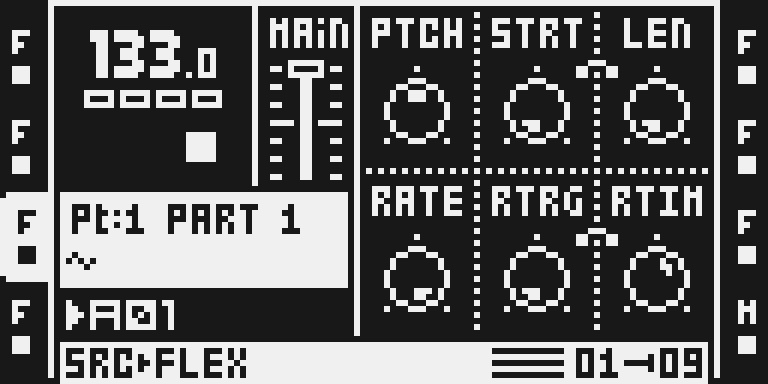
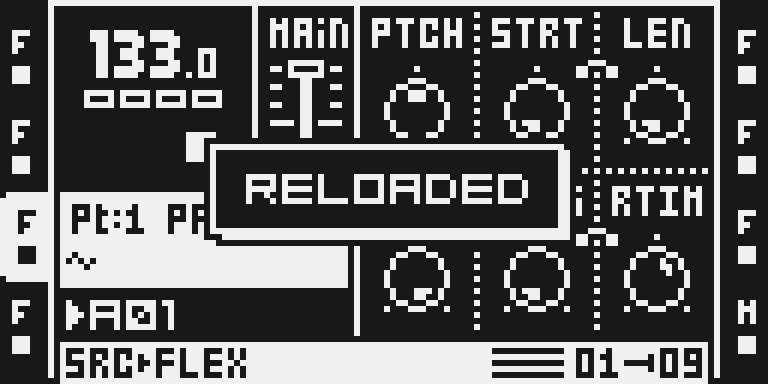
Temp Save: docs, claims, captures and release notes for page and menu windows

Changed region(s): [[0.25, 0.3438, 0.75, 0.6562]]

diff --git a/sdk/octabam/modules/temp-save/README.md b/sdk/octabam/modules/temp-save/README.md
@@ -4,7 +4,7 @@ Version: 0.1.0-experimental · author: Nathaniel Pavel (@npp1993)
 
 ## Overview
 
-Got a groove you like? On the pattern screen, press FUNC + YES to keep a temporary copy of the active pattern and its whole Part, scenes included. Experiment freely, then press FUNC + NO to put both back at once, even while the sequencer plays. It works like Temp Save and Reload on the Digitakt and Digitone.
+Got a groove you like? Press FUNC + YES to keep a temporary copy of the active pattern and its whole Part, scenes included. Experiment freely, then press FUNC + NO to put both back at once, even while the sequencer plays. It works like Temp Save and Reload on the Digitakt and Digitone.
 
 The copy is separate from everything the Octatrack already keeps. Your saved Part stays your saved Part, so RELOAD PART (FUNC + CUE) still goes back to your last Part save. Copied patterns and tracks stay on the clipboard. Nothing is written to the card.
 
@@ -12,11 +12,18 @@ The copy is separate from everything the Octatrack already keeps. Your saved Par
 
 ## Controls
 
-| Gesture | Where | What it does |
-|---|---|---|
-| FUNC + YES | the pattern screen, no menu or list open | Keeps a copy of the active pattern and the Part it plays. The screen shows TEMP SAVED. A second FUNC + YES replaces the copy. |
-| FUNC + NO | the same | Puts the copy back: the pattern and its Part as they were at FUNC + YES. The screen shows RELOADED. |
-| FUNC + NO | on another pattern, bank or project | Shows NO TEMP SAVE and changes nothing. |
+| Gesture | What it does |
+|---|---|
+| FUNC + YES | Keeps a copy of the active pattern and the Part it plays. The screen shows TEMP SAVED. A second FUNC + YES replaces the copy. |
+| FUNC + NO | Puts the copy back: the pattern and its Part as they were at FUNC + YES. The screen shows RELOADED. On another pattern, bank or project it shows NO TEMP SAVE and changes nothing. |
+
+Both work on the pattern screen and in every page and menu window: the SETUP pages (audio and MIDI tracks, except an audio track's SRC SETUP), SCALE, PATTERN SETTINGS, TRACK TRIG EDIT, RECORDING SETUP, MIXER, the PART window and the FUNC + PART menu, ARRANGER, and PROJECT with its pages. An open window stays open and shows the restored values.
+
+They keep their stock meaning wherever stock gives them one, or where a temp save would get in the way:
+
+- sample and slot lists (FUNC + YES previews the sample), whether reached by double-tapping SRC and pressing RIGHT or by double-tapping a TRACK key, and an audio track's SRC SETUP;
+- AED, the RENAME editor, TEMPO and the CHOOSE PROJECT browser;
+- yes/no dialogs (RELOAD PROJECT?, SAVE?, and the like) and the screens shown while the card is written.
 
 There is no page, menu row or knob. The copy lives in the module's memory and is gone after a power-off.
 
@@ -42,7 +49,7 @@ If you moved the pattern to another Part after FUNC + YES, FUNC + NO brings back
 
 ### What changes in a stock flow
 
-**FUNC + YES and FUNC + NO on the pattern screen.** On the stock OS these do exactly what YES and NO alone do there (ARM ALL, DISARM ALL), so the module takes them for the temp save; YES and NO alone are unchanged. A quick second press while TEMP SAVED or RELOADED still shows saves or reloads again, rather than reaching stock's double-press ARM TRACK / DISARM TRACK. Everywhere else both gestures stay stock: in menus and windows (MIXER, PROJECT, PART, SETUP pages, PATTERN SETTINGS), in sample lists (FUNC + YES still previews), and in the one panel mode where YES and NO alone do nothing. This applies only while the module is installed. Checked side by side: YES, NO, FUNC + CUE, the sample preview, the menus above and Apply Scene's SCENE + YES.
+**FUNC + YES and FUNC + NO.** On the stock OS, on the pattern screen and in every page and menu window, these do exactly what YES and NO alone do (ARM ALL / DISARM ALL, or ARM TRACK / DISARM TRACK in MIXER), so the module takes them there for the temp save; YES and NO alone are unchanged. A quick second press while TEMP SAVED or RELOADED still shows saves or reloads again, rather than reaching stock's double-press ARM TRACK / DISARM TRACK. Everywhere stock gives them a meaning of its own, or a temp save could interrupt something, both stay stock (the list above). This applies only while the module is installed. Checked side by side: YES, NO, FUNC + CUE, the sample preview from both lists, each window above, dialogs, RENAME, and Apply Scene's SCENE + YES.
 
 ## Quick tutorial
 
@@ -57,7 +64,7 @@ If you moved the pattern to another Part after FUNC + YES, FUNC + NO brings back
 - One copy at a time, of one pattern and its Part. It is gone after a power-off and never written to the card.
 - The reload replaces the pattern and the Part as a whole, including edits since FUNC + YES on any track.
 - Saving the project under another name, or loading another project, makes the copy unusable (NO TEMP SAVE); reloading the same project keeps it.
-- Memory: 836 bytes of code and a 42,892-byte buffer (one pattern and one Part). Over USB that comes out of the module pool shared by all modules (256 KB).
+- Memory: 890 bytes of code and a 42,892-byte buffer (one pattern and one Part). Over USB that comes out of the module pool shared by all modules (256 KB).
 - No DSP code, no effect slot, no saved data. Installs beside every other module: patches two stock sites nobody else patches, separate from Apply Scene's YES site.
 
 ## Tests and measurements

diff --git a/sdk/octabam/modules/temp-save/TESTING.md b/sdk/octabam/modules/temp-save/TESTING.md
@@ -19,6 +19,8 @@ The build reports `jmp 0x4005e3d8 -> temp_save:ts_yes_hook` and `jmp 0x4005e1fc 
 
 | image (MAIN OS SHA-256, first 12) | remix | gate | result |
 |---|---|---|---|
+| `9dc5d8b3cb6d` | temp-save-stock, d88d7207 (every page and menu window) | verify.py, MKII | PASS, 54 checks |
+| `9dc5d8b3cb6d` | temp-save-stock, d88d7207 | verify.py, MKI | PASS, 45 checks |
 | `32417b06af3f` | temp-save-stock, 001fc493 | verify.py, MKII | PASS, 37 checks (with the quick double press and the cost measurement) |
 | `01b6df8c37bd` | temp-save-stock, 88b14625 | verify.py, MKII | PASS, 35 checks |
 | `01b6df8c37bd` | temp-save-stock, 88b14625 | verify.py, MKI | PASS, 34 checks (no PROJ/PART keys: PART opened with FUNC + MIDI) |
@@ -53,6 +55,8 @@ The fixture is octabam's TMPL project, staged unchanged. Edits are made with the
 - **Stock flows:** YES alone reaches ARM ALL and NO alone DISARM ALL with no module toast; RELOAD PART (FUNC + CUE) restores the saved Part, not the temp save.
 - **Quick second presses** (001fc493): FUNC + YES twice and FUNC + NO twice inside the message's lifetime: TEMP SAVED, TEMP SAVED, RELOADED, RELOADED, and neither ARM ALL nor DISARM ALL runs.
 - **Cost:** executed ColdFire instructions, interrupts included (frame engine on), from the hook's entry: a save to its toast 16,287; a reload to the end of its screen refresh 637,251 stopped and 640,923 playing. Executed instructions, not chip cycles; not timed on the unit.
+- **Page and menu windows** (d88d7207): in AMP, LFO, FX1 and FX2 SETUP, SCALE, PATTERN SETTINGS, RECORDING SETUP, MIXER, and on the MKII also TRACK TRIG EDIT, PROJECT and a PROJECT page, the PART window, the FUNC + PART menu and ARRANGER (the MKI: the PART window through FUNC + MIDI): FUNC + YES saves (TEMP SAVED), the window stays open, an edit made on the pattern screen is undone by FUNC + NO in the same window (RELOADED), the pattern and Part equal the saved copy byte for byte, the CS1 copy equals RAM, and the window stays open. In AMP SETUP the window's LCD after the reload is pixel-identical to the one before the edit (a capture, ).
+- **Where both stay stock** (d88d7207): SRC SETUP of an audio track; the slot list reached by double-tapping SRC and pressing RIGHT and the sample list reached by double-tapping a TRACK key (stock's list handler, the preview, runs); AED; the RENAME PART editor; the RELOAD PROJECT? dialog: no module toast, nothing changed. FUNC let go before YES or NO: in the sample list stock still gets both keys on press and release.
 - **Power cycle** (CS1 and card kept, `--cs1-in --no-post`): the copy is gone, FUNC + NO shows NO TEMP SAVE.
 
 ## Screens
